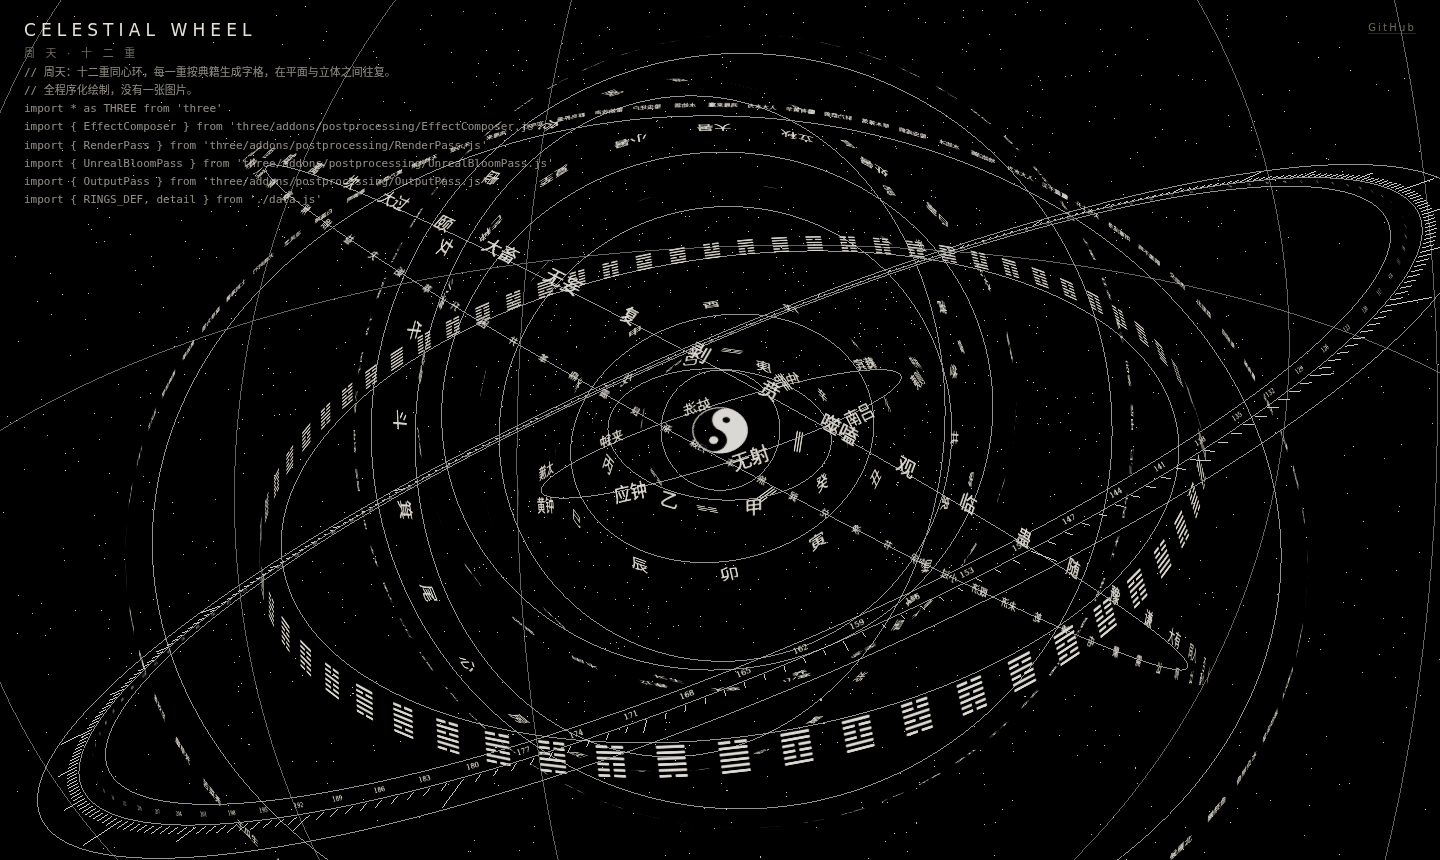
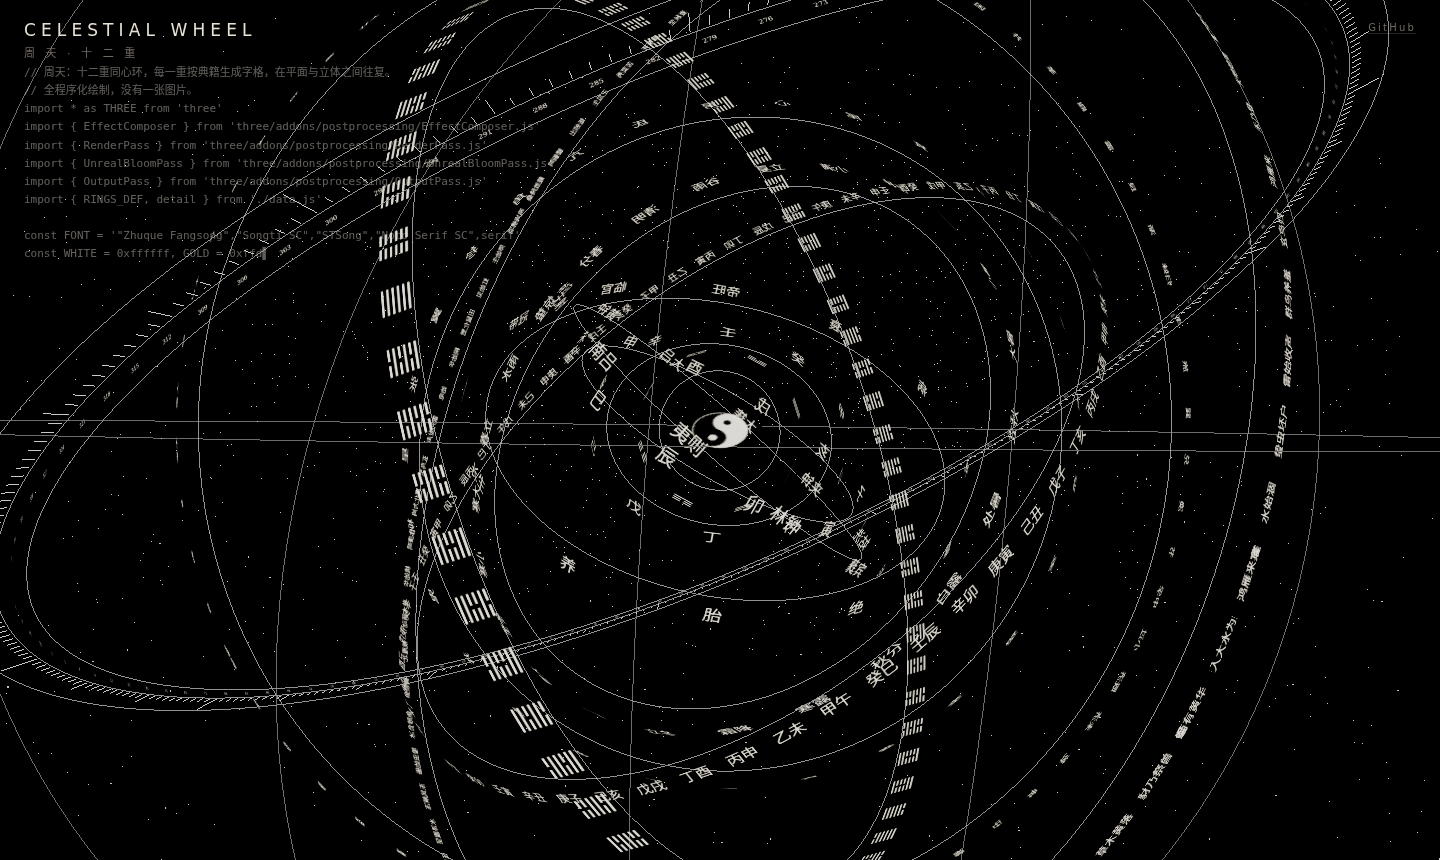
代码打字机再压暗一档，让它退到周天后面去

diff --git a/index.html b/index.html
@@ -29,11 +29,11 @@
     margin: 0; padding: 0;
     font-family: ui-monospace, SFMono-Regular, Menlo, Consolas, monospace;
     font-size: 11px; line-height: 1.65;
-    color: rgba(231, 225, 211, .62);
+    color: rgba(231, 225, 211, .42);
     white-space: pre; overflow: hidden;
     pointer-events: none; user-select: none;
-    -webkit-mask-image: linear-gradient(to bottom, #000 0%, #000 82%, transparent 100%);
-    mask-image: linear-gradient(to bottom, #000 0%, #000 82%, transparent 100%);
+    -webkit-mask-image: linear-gradient(to bottom, #000 0%, #000 70%, transparent 100%);
+    mask-image: linear-gradient(to bottom, #000 0%, #000 70%, transparent 100%);
   }
 
   header {
